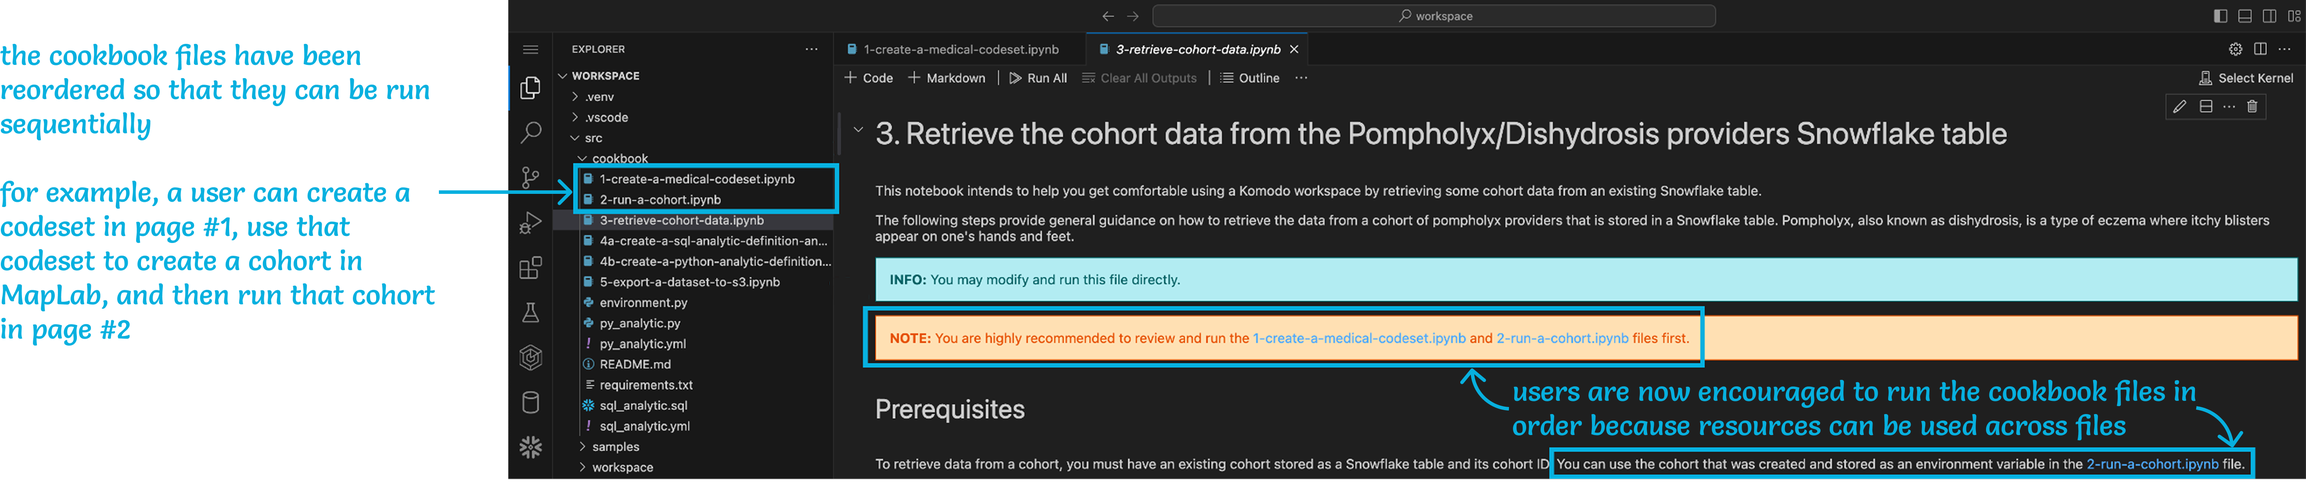
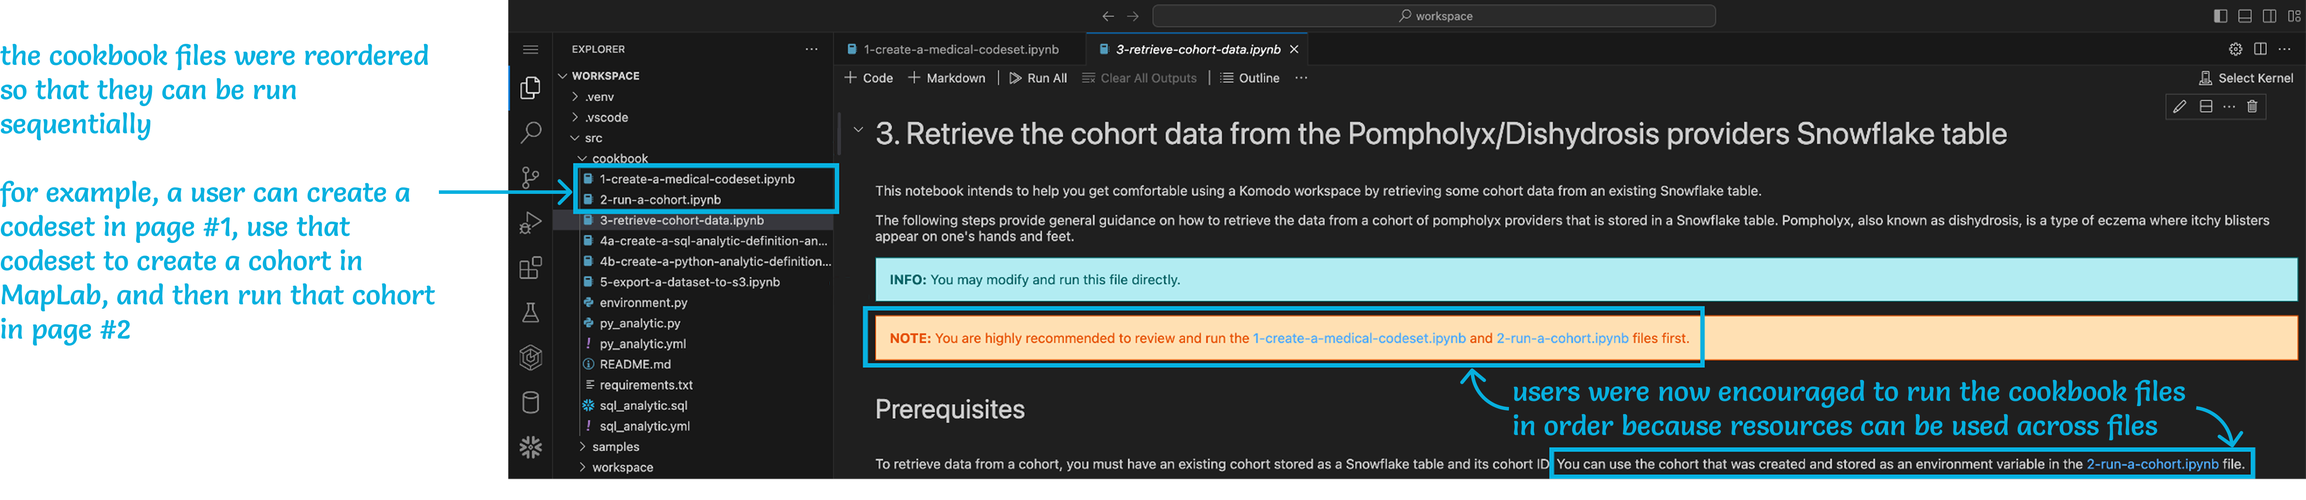
updated mle

Changed region(s): [[0.6555, 0.7368, 0.9676, 0.8904], [0.0, 0.0921, 0.1873, 0.2149]]

diff --git a/mle.html b/mle.html
@@ -99,7 +99,7 @@
                 <div class="row"><br></div>
 
                 <div class="row">
-                    <p>As of March 2025, I have single-handedly written all of the documentation for the MapLab Enterprise offering. For some sample content, you may reference the following (locked) files:</p>
+                    <p>As of March 2025, I have single-handedly written all of the documentation for the MapLab Enterprise product offering. For some sample content, you may reference the following (locked) files:</p>
                     
                     <ul>
                         <li><a href="/files/[Komodo Health] MapLab Enterprise - Workspaces - Content.pdf" target="_blank">Workspaces</a></li>
@@ -107,7 +107,7 @@
                         <li><a href="/files/[Komodo Health] MapLab Enterprise - Functions - Content.pdf" target="_blank">Functions</a></li>
                     </ul>
 
-                    <p><i>Please note that the above files contain proprietary content for the related product and should only be used in correspondence with this portfolio for recruiting purposes. Company branding and several links in the content have therefore been intentionally removed. However, screenshots of the original documentation are linked in the files.</i></p>
+                    <p><i>Please note that the above files contain proprietary content for the related product and should only be used in correspondence with this portfolio for recruiting purposes. Company branding and several links and content have therefore been intentionally removed. However, screenshots of the original documentation are linked in the files.</i></p>
                 </div>
             
             </div>
@@ -172,11 +172,11 @@
                     </ul>
                 </div>
 
-                <p>They were responsible for implementing the high-code experience within the MapLab product suite that would later be sold as the “<a href="https://www.komodohealth.com/solutions/maplab/maplab-enterprise/">MapLab Enterprise</a>” offering that contains:</p>
+                <p>They were responsible for implementing the high-code experience within the MapLab product suite that would later be sold as the “<a href="https://www.komodohealth.com/solutions/maplab/maplab-enterprise/" target="_blank">MapLab Enterprise</a>” offering that contains:</p>
 
                 <div class="indented-item">
                     <ul>
-                        <li>the standard low-code “<a href="https://www.komodohealth.com/solutions/maplab/">MapLab</a>” offering;</li>
+                        <li>the standard low-code “<a href="https://www.komodohealth.com/solutions/maplab/" target="_blank">MapLab</a>” offering;</li>
                         <li>the Komodo SDK, which is Komodo’s Python software development kit (SDK) that surfaces data from the Healthcare Map and ~200 API endpoints developed by both the DX team and other API teams within Komodo; and</li>
                         <li>Komodo Workspaces, each of which is a containerized integrated development environment (IDE) built on top of Visual Studio Code (VS Code), that contains the Komodo SDK.</li>
                     </ul>
@@ -198,7 +198,7 @@
                     </ul>
                 </div>
 
-                <p>Below, I explain at a high level how I worked with the DX team to build out the documentation support model for MapLab Enterprise, including writing all of the corresponding developer documentation for the Komodo SDK and Komodo Workspaces and publishing all of the API documentation generated by various teams throughout the organization. I describe in more detail the major challenges I faced throughout this process, how I informally became a quality assurance (QA) tester for the product, and how I ultimately improved the user experience (UX) for new customers of the product.</p>
+                <p>Below, I explain at a high level how I worked with the DX team to build out the documentation support model for MapLab Enterprise, including writing all of the corresponding developer documentation for the Komodo SDK and Komodo Workspaces and publishing all of the API documentation generated by various teams throughout the organization. I specifically describe the major challenges I faced throughout this process, how I informally became a quality assurance (QA) tester for the product, and how I ultimately improved the user experience (UX) for new customers of the product.</p>
             </div>
         </div>
 
@@ -206,18 +206,18 @@
             <div class="column" id="documentation-goal">
                 <h2>The documentation goal</h2>
 
-                <p>When I first joined the DX team, both the company and the team wanted to launch a “developer portal” as the documentation site for MapLab Enterprise. Every internal stakeholder had a slightly different vision for what the developer portal was supposed to encompass, but they all agreed on wanting:</p>
+                <p>When I first joined the DX team, both <strong>the company and the team wanted to launch a “developer portal” as the documentation site for MapLab Enterprise.</strong> Every internal stakeholder had a slightly different vision for what the developer portal was supposed to encompass, but they all agreed on wanting:</p>
 
                 <div class="indented-item">
                     <ol>
                         <li>documentation on how to install, authenticate into, and use Komodo Workspaces;</li>
-                        <li>documentation on how to call and use the ~200 API endpoints available within the Komodo SDK;</li>
+                        <li>documentation on how to call and use the ~200 API endpoints in the Komodo SDK;</li>
                         <li>a live/interactive sandbox environment to call and test the ~200 API endpoints; and</li>
-                        <li>a way to separate or filter out content for internal users and external customers, as there were ongoing conversations about having different SDKs or API endpoints for the different audiences.</li>
+                        <li>a way to separate/filter out content for internal users and external customers, as there were ongoing conversations about having different SDKs or API endpoints for the different audiences.</li>
                     </ol>
                 </div>
         
-                <p>While most of these requirements were criteria that the TW team and I could typically meet, the third requirement was new to us. This led to many conversations among the DX team members, me and the other TW team members, and even Paligo representatives about choosing the most appropriate documentation tool for the developer portal and manifested into one of the biggest challenges I faced during my time with the DX team.</p>
+                <p>While most of these requirements were criteria that the TW team and I could typically meet, the third requirement was new to us. This led to many conversations among the DX team members, me and the other TW team members, and even Paligo representatives about what would be the most appropriate documentation tool for the developer portal and manifested into one of the biggest challenges I faced during my time with the DX team.</p>
             </div>
         </div>
         
@@ -225,13 +225,13 @@
             <div class="column" id="challenge-1">
                 <h2>Challenge #1: Strong voices among the engineers</h2>
 
-                <p>Most of the software engineers in the DX team were very experienced and knowledgeable, so they also had very strong opinions and voices about many things. I struggled for a long time adjusting to their ways of communicating and learning not to take their feedback too personally.</p>
+                <p>Komodo was very fortunate to have many experienced and knowledgeable software engineers on the DX team to build out MapLab Enterprise, but this also meant that the DX engineers had very strong opinions and voices about many things. I struggled for a long time adjusting to their ways of communicating and learning not to take their feedback too personally.</p>
 
                 <br>
 
                 <h3 id="tool">Choosing (and changing) the documentation tool</h3>
 
-                <p>Collaborating with the DX engineers was especially challenging for me when we had to decide on a documentation tool for the developer portal. I had already been using <a href="https://paligo.net/" target="_blank">Paligo</a> within the TW team for every other product that I was supporting, so I proposed using Paligo for MapLab Enterprise as well. The DX team, however, disapproved. They were concerned that Paligo would not be robust enough to surface the documentation for the ~200 API endpoints that they and other teams within the organization were generating. I briefly investigated this issue myself and even got on support calls with Paligo representatives, but Paligo and I were unable to devise a feasible solution that would change the DX engineers’ minds in the time that we were given. Additionally, the DX team appeared reluctant to further investigate this issue with us. As a result, even though the TW team and I were hesitant to use a different documentation tool and strategy just for the DX team, we decided to compromise given the present limitations of Paligo for MapLab Enterprise. We let the DX team make the final call, and they ultimately decided on using <a href="https://astro.build/" target="_blank">Astro</a> with <a href="https://starlight.astro.build/" target="_blank">Starlight</a> for the documentation site because they felt that Astro was a more customizable web framework for building out a developer portal. Upon their decision, the TW team and I asserted that we would subsequently only focus on writing content for them and would not be able to help develop any custom component or branding in Astro due to our own limited resources, to which the DX team agreed. I began adjusting some of my typical documentation workflows to adapt to the new tool, such as relearning Markdown and adopting the docs-as-code process, while the DX engineers began pulling in the ~200 API documentation. With all of the content being centralized in the DX team’s GitHub repository (“repo”), it wasn’t long before we finally had a documentation site up for internal stakeholders to reference.</p>
+                <p>Collaborating with the DX engineers was especially challenging for me when we had to decide on a documentation tool for the developer portal. <strong>I had already been using <a href="https://paligo.net/" target="_blank">Paligo</a> within the TW team for every other product that I was supporting, so I proposed using Paligo for MapLab Enterprise as well.</strong> The DX team, however, disapproved. They were concerned that Paligo would not be robust enough to surface the documentation for the ~200 API endpoints that they and other teams within the organization were generating. I briefly investigated this issue myself and even got on support calls with Paligo representatives, but Paligo and I were unable to devise a feasible solution that would change the DX engineers’ minds in the time that we were given. Additionally, the DX team appeared reluctant to further investigate this issue with us. As a result, even though the TW team and I were hesitant to use a different documentation tool and strategy just for the DX team, we decided to compromise <strong>given the present limitations of Paligo for MapLab Enterprise. We</strong> let the DX team make the final call, and they <strong>ultimately decided on using <a href="https://astro.build/" target="_blank">Astro</a> with <a href="https://starlight.astro.build/" target="_blank">Starlight</a> for the documentation site</strong> because they felt that Astro was a more customizable web framework for building out a developer portal. Upon their decision, the TW team and I asserted that we would subsequently only focus on writing content for them and would not be able to help develop any custom component or branding in Astro due to our own limited resources, to which the DX team agreed. <strong>I began adjusting some of my typical documentation workflows to adapt to the new tool, such as relearning Markdown and adopting the docs-as-code process</strong>, while the DX engineers began pulling in the ~200 API documentation. With all of the content being centralized in the DX team’s GitHub repository (“repo”), it wasn’t long before we finally had a documentation site up for internal stakeholders to reference.</p>
 
                 <br>
 
@@ -257,7 +257,7 @@
                         <td>
                             <ul>
                                 <li>A component content management system (CCMS)</li>
-                                <li>Existing documentation tool used by the Technical Writing team, so workflows and processes for other products and teams can be reused and repurposed</li>
+                                <li>Existing documentation tool used by the TW team, so workflows and processes for other products and teams can be reused and repurposed</li>
                                 <li>Enterprise contract already paid for by the company</li>
                             </ul>
                         </td>
@@ -287,7 +287,7 @@
                         <td>
                             <ul>
                                 <li>A JavaScript web framework that is fast, robust, and customizable</li>
-                                <li>Integrates well with the rest of the code in the DX team’s GitHub repository</li>
+                                <li>Integrates well with the rest of the code in the DX team’s repo</li>
                                 <li><strong>Can surface the automated API documentation of ~200 endpoints</strong></li>
                                 <li>Could potentially include a live/interactive  sandbox environment to call the API endpoints</li>
                                 <li>Free</li>
@@ -301,7 +301,7 @@
                     </tr>
                 </table>
 
-                <p>After using Astro and Starlight for some time, though, the DX team and I decided to reevaluate our decision of choosing Astro over Paligo. In particular, we all realized that even though Astro was very robust and flexible, many features and customizations that we wanted required more engineering resources from the DX team than anticipated, such as time and effort to implement the company’s branding, audience tagging, and the sandbox environment for customers to call and test the API endpoints. Additionally, most of these features already either came out of the box in Paligo or have been implemented in Paligo by the TW team, and the sandbox environment was no longer a priority. With the limited number of engineers that the DX team had, reallocating resources to build out the documentation site over the Komodo SDK and Komodo Workspaces did not seem reasonable. Instead, finding a solution or workaround to surface the automated API documentation of the ~200 endpoints through Paligo seemed more feasible. As there was also now more trust between the DX team and the TW team, one senior engineer on the DX team and I were able to work extensively and collaboratively to implement a process that imported and published the automated API documentation alongside my manual developer documentation. Though the workaround was convoluted – because the API documentation files had to be formatted a certain way to be imported into Paligo, every import had to be uniquely identifiable within Paligo, and several links within the MapLab Enterprise documentation had to be updated every time there was a new import – I made sure to document the entire process within the TW team’s Confluence site to ensure that other TW team members and Komodo staff could support the workflow as needed. With this solution on hand, I was able to migrate all of the Astro content into Paligo and revert back to my original documentation process while the DX team was able to sunset the Astro documentation site and focus on the actual MapLab Enterprise product offering.</p>
+                <p><strong>After using Astro and Starlight for some time, though,</strong> the DX team and I decided to reevaluate our decision of choosing Astro over Paligo. In particular, <strong>we all realized that even though Astro was very robust and flexible, many features and customizations that we wanted required more engineering resources from the DX team than anticipated</strong>, such as time and effort to implement the company’s branding, audience tagging, and the sandbox environment for customers to call and test the API endpoints. Additionally, most of these features already either came out of the box in Paligo or have been implemented in Paligo by the TW team, and the sandbox environment was no longer a priority. <strong>With the limited number of engineers that the DX team had, reallocating resources to build out the documentation site over the Komodo SDK and Komodo Workspaces did not seem reasonable.</strong> Instead, finding a solution or workaround to surface the automated API documentation of the ~200 endpoints through Paligo seemed more feasible. As there was also now more trust between the DX team and the TW team, <strong>one senior engineer on the DX team and I were able to work extensively and collaboratively to implement a process that imported and published the automated API documentation alongside my manual developer documentation.</strong> Though the workaround was convoluted – because the API documentation files had to be formatted a certain way to be imported into Paligo, every import had to be uniquely identifiable within Paligo, and several links within the MapLab Enterprise documentation had to be updated every time there was a new import – I made sure to document the entire process within the TW team’s Confluence site to ensure that other TW team members and Komodo staff could support the workflow as needed. <strong>With this solution on hand, I was able to migrate all of the Astro content into Paligo and revert back to my original documentation process while the DX team was able to sunset the Astro documentation site and focus on the actual MapLab Enterprise product offering.</strong></p>
 
                 <br>
 
@@ -327,7 +327,7 @@
                         <td>
                             <ul>
                                 <li>A component content management system (CCMS) that <strong>contains audience filtering out of the box</strong></li>
-                                <li>Existing documentation tool used by the Technical Writing team, so workflows, processes, and <strong>company branding for other products and teams can just be reused</strong> and repurposed</li>
+                                <li>Existing documentation tool used by the TW team, so workflows, processes, and <strong>company branding for other products and teams can just be reused</strong> and repurposed</li>
                                 <li><strong>Integrates well with the rest of the MapLab product suite’s documentation</strong></li>
                                 <li><strong>Can surface the automated API documentation of ~200 endpoints with some engineering resources</strong></li>
                                 <li>Enterprise contract already paid for by the company</li>
@@ -359,7 +359,7 @@
                         <td>
                             <ul>
                                 <li>A JavaScript web framework that is fast, robust, and customizable</li>
-                                <li>Integrates well with the rest of the code in the DX team’s GitHub repository</li>
+                                <li>Integrates well with the rest of the code in the DX team’s repo</li>
                                 <li><strong>Can surface the automated API documentation of ~200 endpoints</strong></li>
                                 <li>Could potentially include a live/interactive  sandbox environment to call the API endpoints, <strong>but requires more engineering resources</strong></li>
                                 <li>Free</li>
@@ -387,26 +387,26 @@
 
                 <h3 id="qa">Becoming the informal QA tester</h3>
 
-                <p>To help the DX team, which did not have a QA engineer for most of its initial development period and did not have time to implement robust testing protocols, I took it upon myself to become the first user and unofficial QA tester for MapLab Enterprise. Whenever one of the DX software engineers marked a ticket as complete, I would quickly go into the staging environment to try out the new feature. I constantly thought about different entry points, user flows, and edge cases for each feature, especially with regards to installing the Komodo SDK and authenticating into the Komodo platform, and logged many bug tickets for the DX team with specific steps and screenshots to reproduce or even workaround the issues. To ensure that I was not raising false alarms with the DX team, though, I always tried to replicate and troubleshoot any unexpected behaviors myself and see if the issues were due to a user error, a change that an API team had made without notifying the DX team, or an actual bug that the DX team introduced. Even when a QA engineer finally did join the DX team a few months before the launch of MapLab Enterprise, I continued to question the DX team on how and why certain things worked or didn’t work and supported the QA engineer in ramping up to the product.</p>
+                <p>To help the DX team, which did not have a QA engineer for most of its initial development period and did not have time to implement robust testing protocols, <strong>I took it upon myself to become the first user and unofficial QA tester for MapLab Enterprise.</strong> Whenever one of the DX software engineers marked a ticket as complete, I would quickly go into the staging environment to try out the new feature. I constantly thought about different entry points, user flows, and edge cases for each feature, especially with regards to installing the Komodo SDK and authenticating into the Komodo platform, and logged many bug tickets for the DX team with specific steps and screenshots to reproduce or even workaround the issues. To ensure that I was not raising false alarms with the DX team, though, <strong>I always tried to replicate and troubleshoot any unexpected behaviors myself and see if the issues were due to a user error, a change that an API team had made without notifying the DX team, or an actual bug that the DX team introduced.</strong> Even when a QA engineer finally did join the DX team a few months before the launch of MapLab Enterprise, I continued to question the DX team on how and why certain things worked or didn’t work and supported the QA engineer in ramping up to the product.</p>
         </div>
 
         <div class="row">
             <div class="column" id="challenge-3">
                 <h2>Challenge #3: No standardized processes</h2>
 
-                <p>Aside from having no QA engineer and no testing protocol, as mentioned in the <a href="#challenge-2">Challenge #2: Smoke, Mirrors, and Bugs</a> section above, the DX team also initially had no documentation process. This was partially due to the size of the DX team and the nature of their 0→1 product, again, but also largely due to a lack of understanding within the DX team about the importance of technical writing.</p>
+                <p>Aside from having no QA engineer and no testing protocol, as mentioned in the <a href="#challenge-2">Challenge #2: Smoke, mirrors, and bugs</a> section above, the DX team also initially had no documentation process. This was partially due to the size of the DX team and the nature of their 0→1 product, again, but also largely due to a lack of understanding within the DX team about the importance of technical writing.</p>
 
                 <br>
 
                 <h3 id="evangelize">Evangelizing the value of technical writing</h3>
 
-                <p>In the first year that I joined the DX team, the software engineers did not completely understand the type of support or value that I could provide to them through manually written content. They believed that most, if not all, documentation could be generated through automations and scripts based on their Jira tickets and GitHub PRs and did not particularly see the purpose of having a technical writer. I don’t think they realized at the time that said automations need to be built and tested and are heavily dependent on the amount of information provided in those tickets and PRs, and the DX team had no time to either implement the automations or add detailed descriptions to their user stories and commits. Additionally, each ticket and PR is a standalone artifact and there still needs to be something – or someone – to piece together all of the information into a coherent story for users to understand. This only became more evident to the DX team as time went on, as I produced more written deliverables for MapLab Enterprise, and as more trust was established overall between the DX team and my TW team.</p>
+                <p>In the first year that I joined the DX team, the software engineers did not completely understand the type of support or value that I could provide to them through manually written content. They believed that most, if not all, <strong>documentation</strong> could be <strong>generated through automations</strong> and scripts based on their Jira tickets and GitHub PRs and did not particularly see the purpose of having a technical writer. I don’t think they realized at the time that said automations <strong>need to be built and tested and are heavily dependent on the amount of information provided in</strong> those <strong>tickets and PRs</strong>, and the DX team had no time to either implement the automations or add detailed descriptions to their user stories and commits. Additionally, each ticket and PR is a standalone artifact <strong>and there still needs to be something – or someone – to piece together all of the information into a coherent story for users to understand.</strong> This only became more evident to the DX team as time went on, as I produced more written deliverables for MapLab Enterprise, and as more trust was established overall between the DX team and my TW team.</p>
 
                 <br>
 
                 <h3 id="workflow">Establishing a documentation workflow</h3>
 
-                <p>Because there was no standardized documentation process in place, and as the DX team began to appreciate the value of technical writing more, I took the authority and autonomy to establish and dictate a documentation workflow myself. I took complete ownership over my own timeline and led the DX team accordingly so that they could focus primarily on software development. My workflow was typically as follows:</p>
+                <p>Because there was no standardized documentation process in place, and as the DX team began to appreciate the value of technical writing more, <strong>I took the authority and autonomy to establish and dictate a documentation workflow myself.</strong> I took complete ownership over my own timeline and led the DX team accordingly so that they could focus primarily on software development. My workflow was typically as follows:</p>
 
                 <div class="indented-item">
                     <ol>
@@ -444,15 +444,15 @@
             <div class="column" id="challenge-4">
                 <h2>Challenge #4: Complex product and information gaps</h2>
 
-                <p>The fourth major challenge with working with the DX team was the general complexity of the MapLab Enterprise product offering, as it consisted of multiple moving components owned by different teams within the organization and was intended for technical users like data scientists who typically build large queries to analyze heavy datasets. MapLab Enterprise was especially hard for me and many members of the DX team to grasp because most of us had never interacted directly with the Healthcare Map, the APIs, or our customers prior and we did not completely understand all of the use cases of the high-code product. Every DX engineer had many calls with other teams in Komodo to better understand the existing APIs and our customers’ needs and therefore better understand the features they were responsible for building in MapLab Enterprise. However, this resulted in a somewhat siloed implementation of many of the components in MapLab Enterprise and further highlighted the information gaps within the DX team.</p>
+                <p>The fourth major challenge with working with the DX team was the general complexity of <strong>the MapLab Enterprise product offering</strong>, as it <strong>consisted of multiple moving components owned by different teams</strong> within the organization <strong>and was intended for very technical users</strong> like data scientists who typically build large queries to analyze heavy datasets. MapLab Enterprise was especially hard for me and many members of the DX team to grasp because most of us had never interacted directly with the Healthcare Map, the APIs, or our customers prior and we did not completely understand all of the use cases of the high-code product. <strong>Every DX engineer had</strong> many calls with other teams in Komodo to better understand the existing APIs and our customers’ needs and therefore better understand the features they were responsible for building in MapLab Enterprise. However, this resulted in a <strong>somewhat siloed implementation of many of the components</strong> in MapLab Enterprise and further highlighted the information gaps within the DX team.</p>
 
-                <p>Since MapLab Enterprise was already complex for the people responsible for building the product, we knew that it was definitely going to be complex for the people trying to use the product as well. To simplify the onboarding process, the DX engineers and I tried to devise ways to ensure new users could quickly and easily ramp up to the product. The DX engineers started a cookbook in Komodo Workspaces that contained several Jupyter Notebook files with sample code to show users how to call an API endpoint or use a feature to jumpstart their data analyses while I wrote example scenarios with sample code in my documentation to do the same.</p>
+                <p>Additionally, since MapLab Enterprise was already complex for the people responsible for building the product, we knew that it was definitely going to be complex for the people trying to use the product as well. <strong>To alleviate the steep learning curve for new users</strong> and simplify the onboarding process, the DX engineers and I tried to devise ways to ensure people could quickly and easily ramp up to the product. <strong>The DX engineers started a cookbook</strong> in Komodo Workspaces that contained several Jupyter Notebook files with sample code to show users how to call an API endpoint or use a feature to jumpstart their data analyses <strong>while I wrote example scenarios</strong> with sample code in my documentation to do the same.</p>
 
                 <br>
 
                 <h3 id="ux">Improving the cookbook UX</h3>
 
-                <p>Even though both the DX engineers and I wanted to help our users quickly ramp up to using MapLab Enterprise, I quickly noticed several issues with our approach:</p>
+                <p>Even though both the DX engineers and I wanted to help our users quickly ramp up to using MapLab Enterprise, I quickly noticed several issues with the DX team's cookbook and my documentation approach:</p>
 
                 <h5 id="table-cookbook-issues">[Table] Cookbook Files: Issues</h5>
 
@@ -533,7 +533,7 @@
                     </tr>
                     <tr>
                         <td>1</td>
-                        <td>The cookbook files are sorted so that they can be run sequentially</td>
+                        <td>The cookbook files can be run sequentially</td>
                         <td>
                             <img class="trigger" data-modal="cookbook-after-1" src="images/mle/cookbook-after-1.png">
                             
@@ -589,7 +589,7 @@
 
                 <p>However, I believe that <strong>letting the DX engineers decide on the initial documentation tool for the developer portal also helped build out the camaraderie between the TW and DX teams</strong> because it showed the DX engineers that we were there not to fight or hinder them but to help and support them. Even though we did end up changing the final documentation platform, I don’t think the time spent using Astro instead of Paligo was any time wasted. <strong>Perfection is the enemy of good and progress, and we made the best decision with the information we had available at the time.</strong> If we didn’t quickly settle on a documentation tool that we truly believed could serve our needs, the DX engineers would have been distracted from coding while I would have been stalled on writing.</p>
 
-                <p>I want to also believe that I actively played a part in convincing the DX engineers the importance of technical writing. For every feature, I diligently compiled and connected all of the disparate pieces of information from Jira tickets, GitHub PRs, Confluence pages, Slack messages, and Zoom meetings into one coherent piece of documentation that told a complete story. <strong>Through the writing of manual documentation and the updating of the cookbook, I provided tangible artifacts that showcased the unique value of having a technical writer.</strong> Producing deliverables like these helped me get a greater sense of belonging and value within the DX team as well, which further enhanced my desire to support and help the DX team, too.</p>
+                <p>I want to also believe that I actively played a part in convincing the DX engineers the importance of technical writing. For every feature, I diligently compiled and connected all of the disparate pieces of information from Jira tickets, GitHub PRs, Confluence pages, Slack messages, and Zoom meetings into one coherent piece of documentation that told a complete story. <strong>Through the writing of manual documentation and the updating of the cookbook, I provided tangible artifacts that showcased the unique value of having a technical writer.</strong> Producing deliverables like these helped me get a greater sense of belonging and value within the DX team as well, which further enhanced my drive to support the DX team, too.</p>
 
                 <p>Thinking back, <strong>even though I struggled a lot during my time with the DX team, I was able to hold on because I truly – really – enjoy technical writing.</strong> I love the process of gathering and piecing together information, I love writing, and I love being able to simplify some complex piece of information so that more people can understand and take advantage of the information at hand. Even today, with the introduction of so many AI tools, much information is still disparate and still needs a human to piece together. Certain aspects of technical writing may change in this era of AI, but the art of technical writing is still here to stay, and I am here for it.</p>
             </div>

diff --git a/index.html b/index.html
@@ -168,8 +168,8 @@
             </div>
         </div>
 
-        <div class="project-item soon">
-            <a class="project-link">
+        <div class="project-item">
+            <a class="project-link" href="/mle.html">
                 <div class="project-desc">
                     <div class="project-desc-wrapper">
                         <div class="project-desc-top">
@@ -177,7 +177,7 @@
                             <h6>API & Developer Documentation • QA Testing • UX Design</h6>
                         </div>
                         <div class="project-desc-bottom">
-                            <h5>coming soon</h5>
+                            <h5><span class="project-desc-underline">read project write-up</span> <i class="fa fa-arrow-right"></i></h5>
                         </div>
                     </div>
                 </div>
